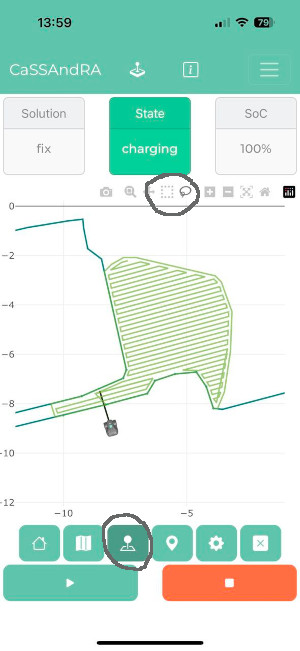
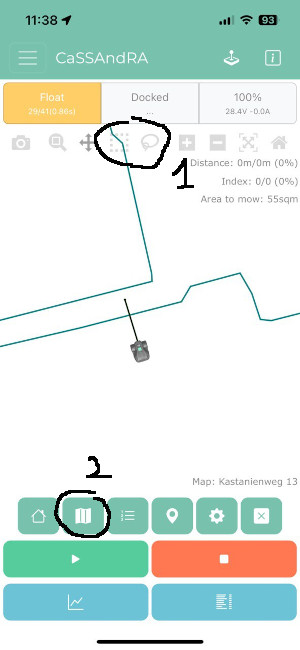
Change button behavior on task page Add new data over api Update readme

diff --git a/CaSSAndRA/src/components/tasks/map.py b/CaSSAndRA/src/components/tasks/map.py
@@ -42,21 +42,22 @@ tasksmap.update_layout(
 
 @callback(Output(ids.TASKMAP, 'figure'),
           [Input(ids.BUTTONPLANMOWALL, 'n_clicks'),
-           Input(ids.BUTTONCONFIRMSELECTION, 'n_clicks'),
            Input(ids.BUTTONPLANCANCEL, 'n_clicks'),
            Input(ids.MODALSAVECURRENTTASK, 'is_open'),
            Input(ids.MODALREMOVETASK, 'is_open'), 
            Input(ids.DROPDOWNTASKSORDER, 'value'),
            Input(ids.BUTTONREMOVETASK, 'n_clicks'),
-           State(ids.TASKMAP, 'selectedData'),])
+           State(ids.TASKMAP, 'selectedData'),
+           State(ids.TASKMAP, 'figure')
+           ])
 def update(bpma_nclicks: int, 
-           bcs_nclicks: int, 
            bpc_nclicks: int, 
            save_is_open: bool, 
            remove_is_open: bool, 
            tasks_order: list, 
            brt_nclicks: int, 
            selecteddata: dict,
+           fig_state: dict,
            ) -> list:
 
     traces = []
@@ -66,10 +67,22 @@ def update(bpma_nclicks: int,
     context = ctx.triggered_id
     context_triggered = ctx.triggered
 
-    #Create a task for whole map
+    #Create a task
     if context == ids.BUTTONPLANMOWALL:# and buttonmowall:
         current_task.preview = pd.DataFrame()
-        current_task.selected_perimeter = current_map.perimeter_polygon
+        if 'selections' in fig_state['layout'] and fig_state['layout']['selections'] != []:
+            current_task.selected_perimeter = map.selection(current_map.perimeter_polygon, selecteddata)
+            if 'lassoPoints' in selecteddata:
+                current_task.selection_type = 'lassoPoints'
+                current_task.selection = selecteddata['lassoPoints']
+            else:
+                current_task.selection_type = 'range'
+                current_task.selection = selecteddata['range']
+        else:
+            current_task.selected_perimeter = current_map.perimeter_polygon
+            current_task.selection_type = 'perimeter'
+            current_task.selection = {'X': [0], 'Y': [0]}
+        #current_task.selected_perimeter = current_map.perimeter_polygon
         current_map.task_progress = 0
         current_map.total_tasks = 1
         current_map.calculating = True
@@ -78,31 +91,6 @@ def update(bpma_nclicks: int,
             current_task.calc_route_preview(route) 
         current_map.calculating = False
         current_task.parameters = pathplannercfgtask
-        current_task.selection_type = 'perimeter'
-        current_task.selection = {'X': [0], 'Y': [0]}
-
-    #Check interactions with graph and create a task for selected zone
-    if selecteddata == {'points':[]}: #Workaround for selected data, beacause after select selected data changing to {'poonts':[]} and triggering context_id
-        selecteddata = None
-    if context == ids.BUTTONCONFIRMSELECTION and selecteddata: #context_triggered[0]['prop_id'] == ids.TASKMAP+'.selectedData' and selecteddata:
-        current_task.preview = pd.DataFrame()
-        perimeter_preview = current_map.perimeter_polygon
-        current_task.selected_perimeter = map.selection(perimeter_preview, selecteddata)
-        if not current_task.selected_perimeter.is_empty:
-            current_map.task_progress = 0
-            current_map.total_tasks = 1
-            current_map.calculating = True
-            route = path.calc(current_task.selected_perimeter, pathplannercfgtask, rover_position)
-            if route:
-                current_task.calc_route_preview(route)
-            current_map.calculating = False
-            current_task.parameters = pathplannercfgtask
-            if 'lassoPoints' in selecteddata:
-                current_task.selection_type = 'lassoPoints'
-                current_task.selection = selecteddata['lassoPoints']
-            else:
-                current_task.selection_type = 'range'
-                current_task.selection = selecteddata['range']
 
     #Remove preview if cancel button clicked
     if context == ids.BUTTONPLANCANCEL and not current_task.preview.empty:

diff --git a/CaSSAndRA/src/components/tasks/buttongroupcontrol.py b/CaSSAndRA/src/components/tasks/buttongroupcontrol.py
@@ -5,8 +5,7 @@ from .. import ids
 from src.backend.data.roverdata import robot
 from src.backend.data.mapdata import current_map
                 
-buttonplanmowall = dbc.Button(id=ids.BUTTONPLANMOWALL, size='lg', class_name='me-1 mt-1 bi bi-map-fill', disabled=False, title='plan mow all')
+buttonplanmowall = dbc.Button(id=ids.BUTTONPLANMOWALL, size='lg', class_name='me-1 mt-1 bi bi-map-fill', disabled=False, title='calc task for selected area')
 buttonmowsettings = dbc.Button(id=ids.BUTTONPLANMOWSETTINGS, size='lg', class_name='me-1 mt-1 bi bi-gear-fill', disabled=False, title='temporarly mow settings')
-buttonconfirmselection = dbc.Button(id=ids.BUTTONCONFIRMSELECTION, size='lg', class_name='me-1 mt-1 bi bi-check-square-fill', disabled=False, title='confirm selection')
 buttoncancel = dbc.Button(id=ids.BUTTONPLANCANCEL, size='lg', class_name='me-1 mt-1 bi bi-x-square-fill', disabled=False, title='cancel')
 

diff --git a/CaSSAndRA/src/backend/comm/api.py b/CaSSAndRA/src/backend/comm/api.py
@@ -36,6 +36,7 @@ class API:
 
     def create_robot_payload(self) -> None:
         self.robotstate['status'] = robot.status
+        self.robotstate['dock reason'] = robot.dock_reason
         self.robotstate['battery'] = robot.soc
         self.robotstate['position'] = dict(x=robot.position_x, y=robot.position_y)
         self.robotstate['target'] = dict(x=robot.target_x, y=robot.target_y) 
@@ -75,8 +76,10 @@ class API:
         self.mowparametersstate_json = json.dumps(self.mowparametersstate)
     
     def create_map_payload(self) -> None:
+        self.mapstate['mowprogress idx'] = robot.mowprogress
+        self.mapstate['mowprogress distance'] = robot.mowprogress_distance
         self.mapstate_json = json.dumps(self.mapstate)
-
+        
     def update_payload(self) -> None:
         self.create_api_payload()
         self.create_robot_payload()

diff --git a/CaSSAndRA/src/components/state/buttongroupcontrol.py b/CaSSAndRA/src/components/state/buttongroupcontrol.py
@@ -98,7 +98,7 @@ def perfom_cmd(n_clicks_bgo: int,
                active_bma: bool, 
                active_bss: bool, 
                active_bgt: bool,
-               ) -> list():
+               ) -> list:
     
     context = ctx.triggered_id
     rover_state = robot.status
@@ -167,7 +167,7 @@ def update_button_disabled(n_intervals: int,
                            bss_disabled: bool,
                            bgt_disabled: bool, 
                            bc_disabled: bool,
-                           ) -> list():
+                           ) -> list:
     context = ctx.triggered_id
 
     if current_map.perimeter.empty:

diff --git a/CaSSAndRA/src/pages/taskplanner.py b/CaSSAndRA/src/pages/taskplanner.py
@@ -71,7 +71,6 @@ def update_layout() -> html.Div:
                             [
                                 buttongroupcontrol.buttonplanmowall,
                                 buttongroupcontrol.buttonmowsettings,
-                                buttongroupcontrol.buttonconfirmselection,
                                 buttongroupcontrol.buttoncancel,
                             ],
                             className='text-center p-1',

diff --git a/CaSSAndRA/src/components/ids.py b/CaSSAndRA/src/components/ids.py
@@ -84,7 +84,6 @@ OKBUTTONSHORTCUTS = 'ok-button-shortcuts'
 BUTTONPLANMOWALL = 'button-plan-mow-all'
 BUTTONSAVECURRENTTASK = 'button-save-current-task'
 BUTTONPLANMOWSETTINGS = 'button-plan-mow-settings'
-BUTTONCONFIRMSELECTION = 'button-confirm-selection'
 BUTTONPLANCANCEL = 'button-plan-cancel'
 BUTTONREMOVETASK = 'button-remove-task'
 BUTTONSTARTSELECTEDTASKSORDER = 'button-start-selected-tasks-order'

diff --git a/CaSSAndRA/app.py b/CaSSAndRA/app.py
@@ -1,6 +1,6 @@
 #!/usr/bin/env python3
 
-#Version:0.103.4 Fix issue with send message button
+#Version:0.104.0 Change button behavior on task page, add new api values
 # package imports
 import os
 import sys

diff --git a/CaSSAndRA/src/backend/data/appdata.py b/CaSSAndRA/src/backend/data/appdata.py
@@ -1,4 +1,4 @@
 import logging
 logger = logging.getLogger(__name__)
 
-version = '0.103.4'
+version = '0.104.0'

diff --git a/README.md b/README.md
@@ -337,12 +337,12 @@ Overview page can be called by clicking "CaSSAndRA" in the navbar. This is your 
 Click on "go home" button and confirm the action by clicking play button. 
 
 ### Mow whole area
-Click on "mow all" button. CaSSAndRA calculates the mowing paths according to your settings. Depending on the performance of your computer or the size of your map, the calculation may take some time. The calculated route appear green on the map. Click on play button to start mowing
+Click on "mow all or selected area" button. CaSSAndRA calculates the mowing paths according to your settings. Depending on the performance of your computer or the size of your map, the calculation may take some time. The calculated route appear green on the map. Click on play button to start mowing
 
 ![using_app_mow](https://raw.githubusercontent.com/EinEinfach/CaSSAndRA/master/docs/using_app_mow.jpeg) 
 
 ### Mow selected area
-Click on "select zone to mow" button. Select "Lasso Select" or "Box Select" in the tool bar on top of the map. Then mark the desired area on the map. Depending on the performance of your computer or the size of your map, the calculation may take some time. The calculated routes appear green on the map. You can repeat the calculation for selected area. Change your mow settings and click "select zone to mow" again. The Lasso-Select selection and Box-Select selection can be removed by double click event if corespondent tool selected. Click on play button to start mowing
+Select "Lasso Select" or "Box Select" in the tool bar on top of the map. Then mark the desired area on the map. And select "mow all or selected area" button. Depending on the performance of your computer or the size of your map, the calculation may take some time. The calculated routes appear green on the map. You can repeat the calculation for selected area. Change your mow settings and click "select zone to mow" again. The Lasso-Select selection and Box-Select selection can be removed by double click event if corespondent tool selected. Click on play button to start mowing
 
 ![using_app_mow_zone](https://raw.githubusercontent.com/EinEinfach/CaSSAndRA/master/docs/using_app_mow_zone.jpeg) 
 
